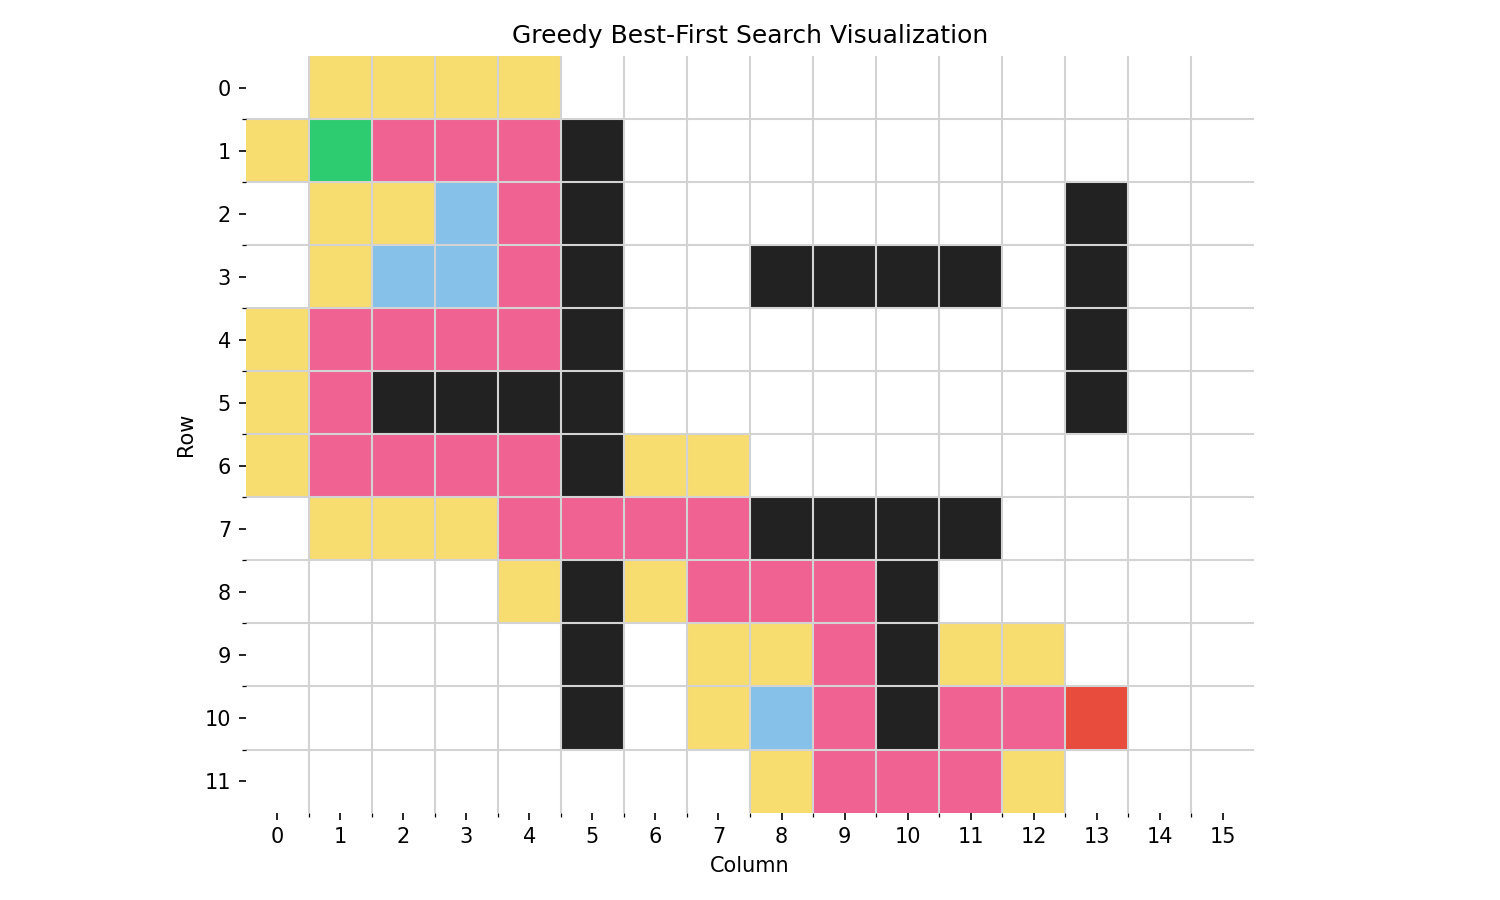
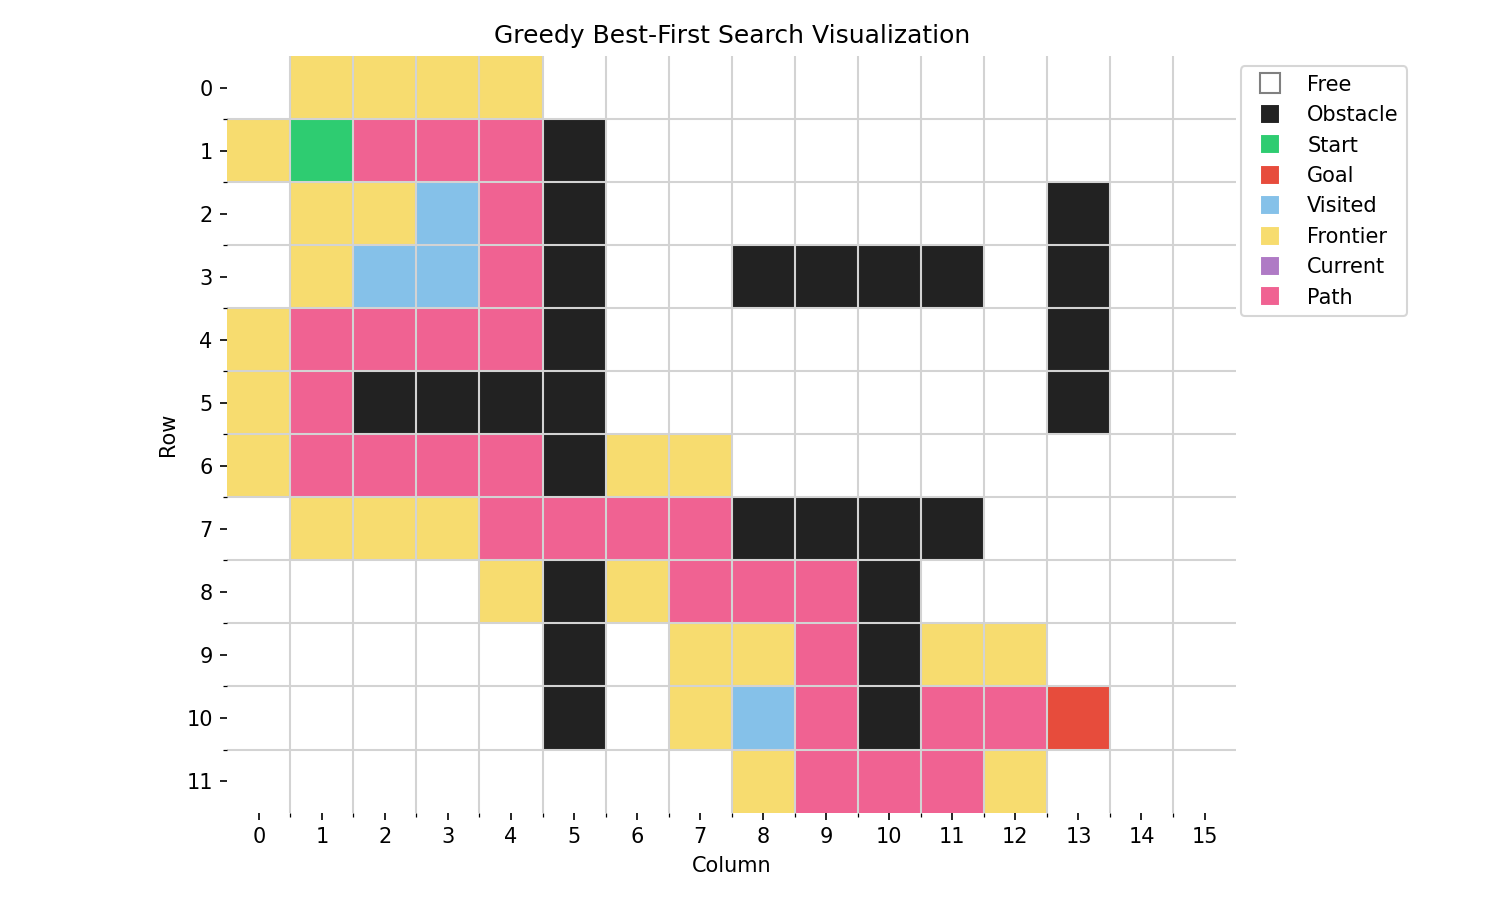
feat: add Greedy search animation

diff --git a/src/run_greedy_animation.py b/src/run_greedy_animation.py
@@ -1,0 +1,138 @@
+import os
+import shutil
+from pathlib import Path
+
+import imageio.v2 as imageio
+import matplotlib.pyplot as plt
+from matplotlib.colors import BoundaryNorm
+
+from grid_map import build_demo_grid
+from run_bfs_demo import COLOR_MAP, build_visual_matrix
+from search_algorithms import SearchStep, greedy_best_first_search
+from run_greedy_demo import add_legend
+
+
+def draw_frame(grid, step, output_path, frame_number, total_frames, phase_name):
+    matrix = build_visual_matrix(grid, step)
+
+    fig, ax = plt.subplots(figsize=(10, 6))
+
+    norm = BoundaryNorm(
+        boundaries=[-0.5, 0.5, 1.5, 2.5, 3.5, 4.5, 5.5, 6.5, 7.5],
+        ncolors=COLOR_MAP.N,
+    )
+
+    ax.imshow(matrix, cmap=COLOR_MAP, norm=norm)
+
+    ax.set_xticks(range(grid.cols))
+    ax.set_yticks(range(grid.rows))
+    ax.set_xticklabels(range(grid.cols))
+    ax.set_yticklabels(range(grid.rows))
+
+    ax.set_xticks([x - 0.5 for x in range(1, grid.cols)], minor=True)
+    ax.set_yticks([y - 0.5 for y in range(1, grid.rows)], minor=True)
+    ax.grid(which="minor", color="lightgray", linestyle="-", linewidth=1)
+
+    title = f"Greedy Best-First {phase_name} - Frame {frame_number}/{total_frames}"
+    ax.set_title(title)
+    ax.set_xlabel("Column")
+    ax.set_ylabel("Row")
+
+    for spine in ax.spines.values():
+        spine.set_visible(False)
+
+    add_legend(ax)
+
+    plt.tight_layout()
+    plt.savefig(output_path, dpi=120)
+    plt.close()
+
+
+def select_search_steps(steps, stride=3):
+    selected = steps[::stride]
+
+    if selected[-1] != steps[-1]:
+        selected.append(steps[-1])
+
+    return selected
+
+
+def build_path_reconstruction_steps(final_step):
+    path_steps = []
+
+    for i in range(1, len(final_step.path) + 1):
+        partial_path = final_step.path[:i]
+
+        step = SearchStep(
+            current=final_step.path[i - 1],
+            visited=set(final_step.visited),
+            frontier=set(),
+            path=partial_path,
+            found=True,
+        )
+
+        path_steps.append(step)
+
+    return path_steps
+
+
+def main():
+    grid = build_demo_grid()
+    steps = greedy_best_first_search(grid)
+
+    search_steps = select_search_steps(steps, stride=3)
+    final_step = steps[-1]
+    path_steps = build_path_reconstruction_steps(final_step)
+
+    output_dir = Path("results")
+    frame_dir = output_dir / "greedy_frames"
+
+    os.makedirs(output_dir, exist_ok=True)
+
+    if frame_dir.exists():
+        shutil.rmtree(frame_dir)
+
+    frame_dir.mkdir(parents=True)
+
+    frame_paths = []
+    combined_steps = []
+
+    for step in search_steps:
+        combined_steps.append((step, "Search Phase"))
+
+    for step in path_steps:
+        combined_steps.append((step, "Path Reconstruction Phase"))
+
+    total_frames = len(combined_steps)
+
+    for index, (step, phase_name) in enumerate(combined_steps, start=1):
+        frame_path = frame_dir / f"frame_{index:03d}.png"
+        draw_frame(
+            grid=grid,
+            step=step,
+            output_path=frame_path,
+            frame_number=index,
+            total_frames=total_frames,
+            phase_name=phase_name,
+        )
+        frame_paths.append(frame_path)
+
+    images = [imageio.imread(frame_path) for frame_path in frame_paths]
+
+    gif_path = output_dir / "greedy_search.gif"
+    imageio.mimsave(gif_path, images, duration=0.18, loop=0)
+
+    shutil.rmtree(frame_dir)
+
+    print(f"Saved: {gif_path}")
+    print(f"Original search steps: {len(steps)}")
+    print(f"Search frames: {len(search_steps)}")
+    print(f"Path reconstruction frames: {len(path_steps)}")
+    print(f"Total animation frames: {len(combined_steps)}")
+    print(f"Path found: {final_step.found}")
+    print(f"Path length: {len(final_step.path)}")
+    print(f"Visited cells: {len(final_step.visited)}")
+
+
+if __name__ == "__main__":
+    main()

diff --git a/src/run_greedy_demo.py b/src/run_greedy_demo.py
@@ -8,6 +8,21 @@ from run_bfs_demo import COLOR_MAP, build_visual_matrix
 from search_algorithms import greedy_best_first_search
 
 
+def add_legend(ax):
+    legend_items = [
+        plt.Line2D([0], [0], marker="s", color="w", label="Free", markerfacecolor="#ffffff", markeredgecolor="gray", markersize=10),
+        plt.Line2D([0], [0], marker="s", color="w", label="Obstacle", markerfacecolor="#222222", markersize=10),
+        plt.Line2D([0], [0], marker="s", color="w", label="Start", markerfacecolor="#2ecc71", markersize=10),
+        plt.Line2D([0], [0], marker="s", color="w", label="Goal", markerfacecolor="#e74c3c", markersize=10),
+        plt.Line2D([0], [0], marker="s", color="w", label="Visited", markerfacecolor="#85c1e9", markersize=10),
+        plt.Line2D([0], [0], marker="s", color="w", label="Frontier", markerfacecolor="#f7dc6f", markersize=10),
+        plt.Line2D([0], [0], marker="s", color="w", label="Current", markerfacecolor="#af7ac5", markersize=10),
+        plt.Line2D([0], [0], marker="s", color="w", label="Path", markerfacecolor="#f06292", markersize=10),
+    ]
+
+    ax.legend(handles=legend_items, loc="upper right", bbox_to_anchor=(1.18, 1.0))
+
+
 def draw_search_step(grid, step, output_path):
     matrix = build_visual_matrix(grid, step)
 
@@ -35,6 +50,8 @@ def draw_search_step(grid, step, output_path):
 
     for spine in ax.spines.values():
         spine.set_visible(False)
+
+    add_legend(ax)
 
     plt.tight_layout()
     os.makedirs("results", exist_ok=True)